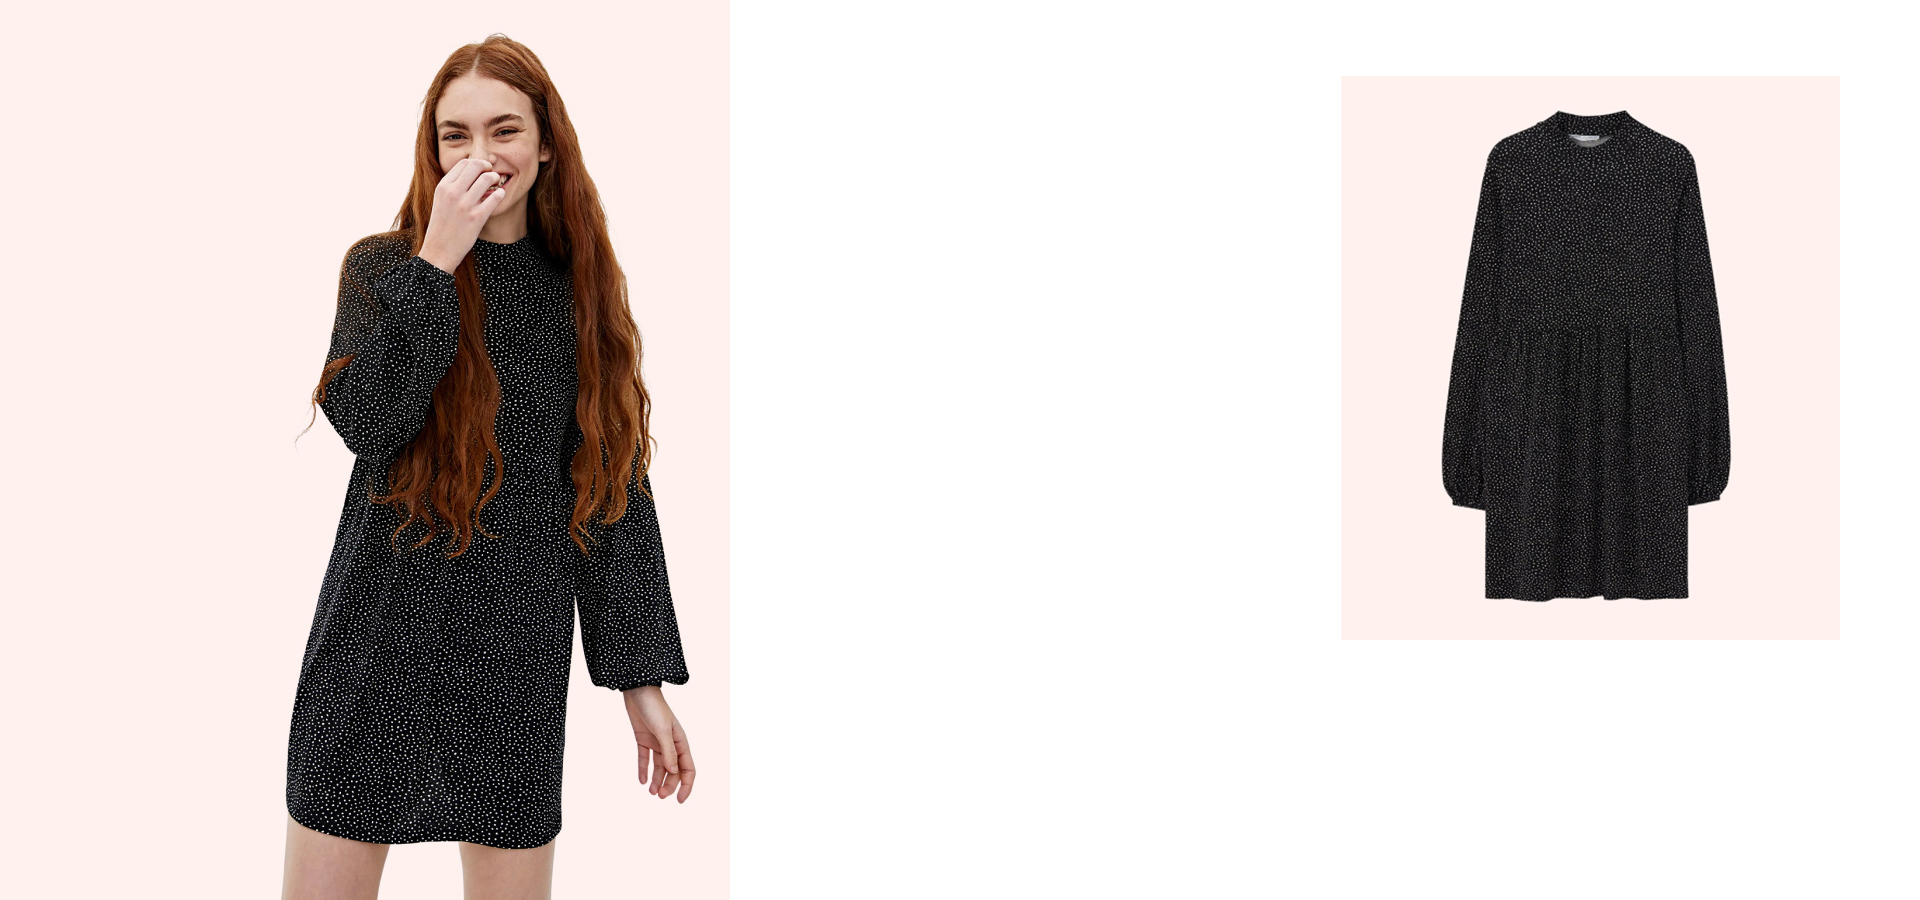
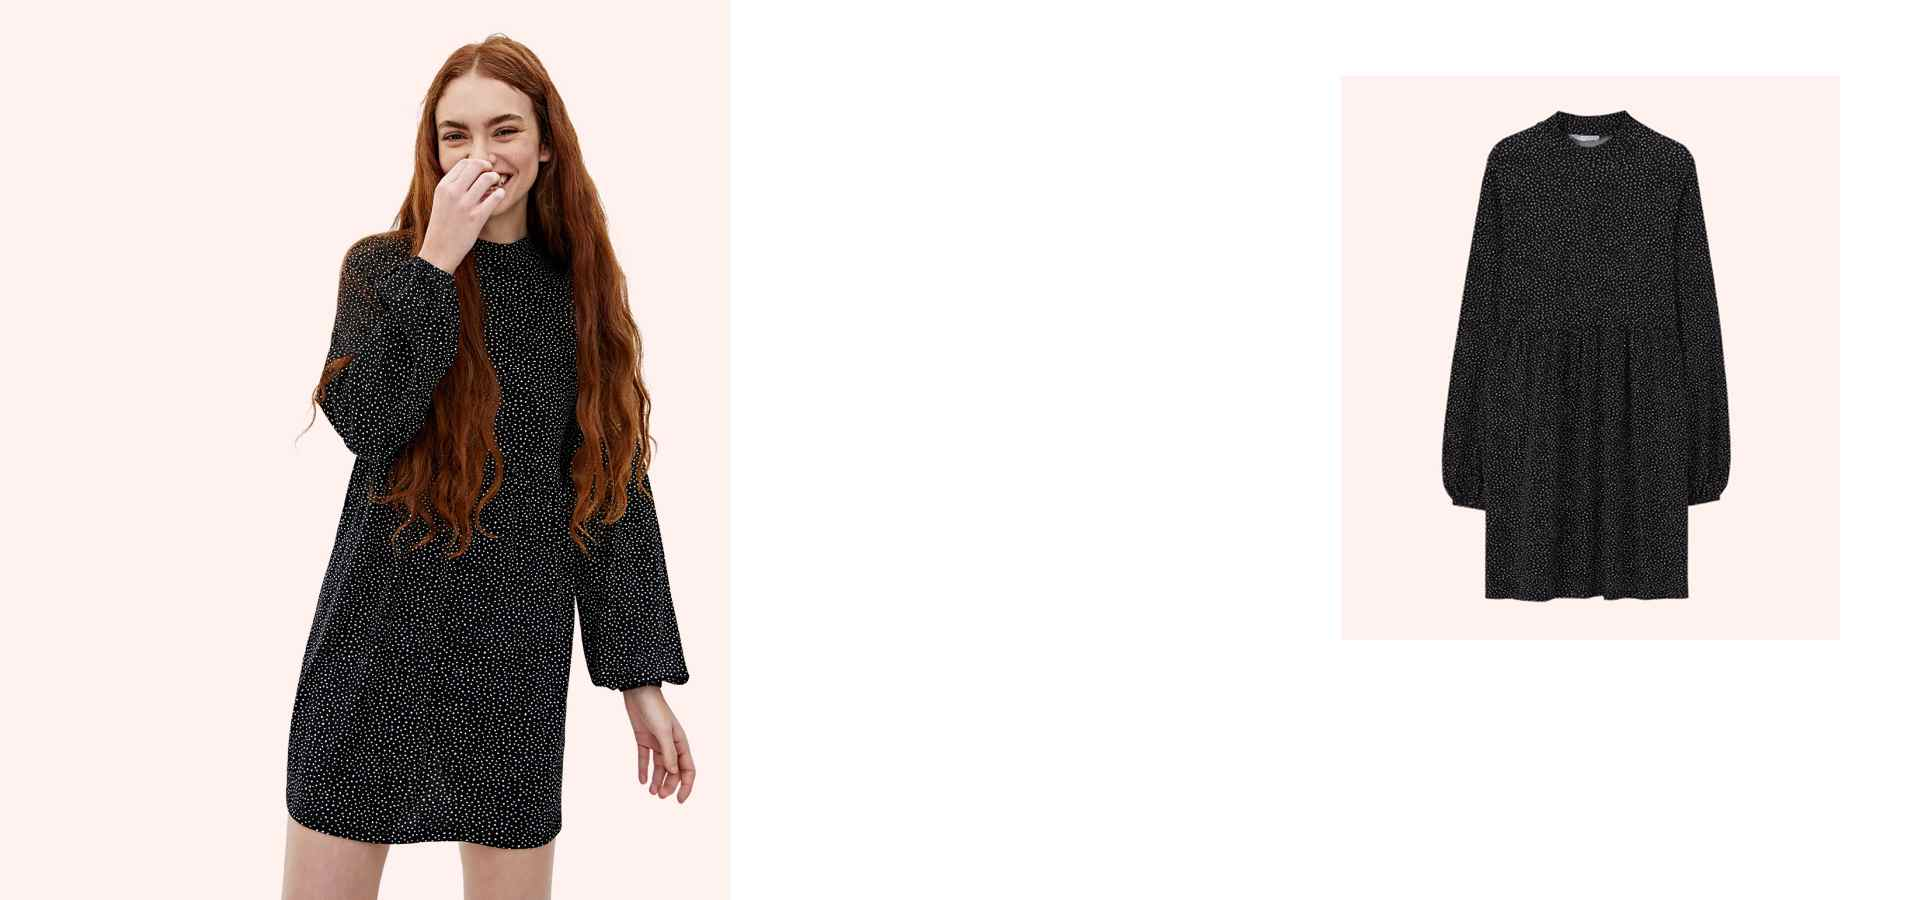
decrease images sizes

Changed region(s): [[0.1562, 0.2489, 0.3438, 0.9333]]

diff --git a/src/components/navbar/navbarComponents/dropdownNavbar.tsx b/src/components/navbar/navbarComponents/dropdownNavbar.tsx
@@ -1,216 +1,3 @@
-// // import * as React from "react";
-// // import { styled, alpha } from "@mui/material/styles";
-// // import Button from "@mui/material/Button";
-// // import Menu, { MenuProps } from "@mui/material/Menu";
-// // import MenuItem from "@mui/material/MenuItem";
-// // import KeyboardArrowDownIcon from "@mui/icons-material/KeyboardArrowDown";
-// // import { Link } from "react-router-dom";
-
-// // const StyledMenu = styled((props: MenuProps) => (
-// //   <Menu
-// //     elevation={0}
-// //     anchorOrigin={{
-// //       vertical: "bottom",
-// //       horizontal: "right",
-// //     }}
-// //     transformOrigin={{
-// //       vertical: "top",
-// //       horizontal: "right",
-// //     }}
-// //     {...props}
-// //   />
-// // ))(({ theme }) => ({
-// //   "& .MuiPaper-root": {
-// //     borderRadius: 6,
-// //     marginTop: theme.spacing(1),
-// //     minWidth: 180,
-// //     color: theme.palette.mode === "light" ? "rgb(55, 65, 81)" : theme.palette.grey[300],
-// //     boxShadow:
-// //       "rgb(255, 255, 255) 0px 0px 0px 0px, rgba(0, 0, 0, 0.05) 0px 0px 0px 1px, rgba(0, 0, 0, 0.1) 0px 10px 15px -3px, rgba(0, 0, 0, 0.05) 0px 4px 6px -2px",
-// //     "& .MuiMenu-list": {
-// //       padding: "4px 0",
-// //     },
-// //     "& .MuiMenuItem-root": {
-// //       "& .MuiSvgIcon-root": {
-// //         fontSize: 18,
-// //         color: theme.palette.text.secondary,
-// //         marginRight: theme.spacing(1.5),
-// //       },
-// //       "&:active": {
-// //         backgroundColor: alpha(theme.palette.primary.main, theme.palette.action.selectedOpacity),
-// //       },
-// //     },
-// //   },
-// // }));
-
-// // export default function DropdownNavbar() {
-// //   const [anchorEl, setAnchorEl] = React.useState<null | HTMLElement>(null);
-// //   const open = Boolean(anchorEl);
-// //   const handleClick = (event: React.MouseEvent<HTMLElement>) => {
-// //     setAnchorEl(event.currentTarget);
-// //   };
-// //   const handleClose = () => {
-// //     setAnchorEl(null);
-// //   };
-
-// //   const isLinkActive = (linkPath: string) => {
-// //     return location.pathname === linkPath;
-// //   };
-
-// //   const categories = ["electronics", "jewelery", "men's clothing", "women's clothing"];
-
-// //   return (
-// //     <div>
-// //       <Button
-// //         id="demo-customized-button"
-// //         aria-controls={open ? "demo-customized-menu" : undefined}
-// //         aria-haspopup="true"
-// //         aria-expanded={open ? "true" : undefined}
-// //         variant="text"
-// //         disableElevation
-// //         onClick={handleClick}
-// //         endIcon={<KeyboardArrowDownIcon />}
-// //         className={` md:!text-base !text-sm  !uppercase !font-medium !text-primary hover:!text-sky-700 !bg-transparent hover:!bg-[#E8E8E9] hover:!p-2 !rounded-none`}
-// //       >
-// //         Categories
-// //       </Button>
-// //       <StyledMenu
-// //         id="demo-customized-menu"
-// //         MenuListProps={{
-// //           "aria-labelledby": "demo-customized-button",
-// //         }}
-// //         anchorEl={anchorEl}
-// //         open={open}
-// //         onClose={handleClose}
-// //       >
-// //         {categories.map((item, index) => (
-// //           <MenuItem key={`categories-dropdown-${index + 1}`} onClick={handleClose} disableRipple>
-// //             <Link
-// //               to={`/products/category/${item}`}
-// //               className={`md:mx-3 mx-2  md:text-base text-sm py-1  uppercase font-medium text-primary hover:text-sky-700 ${
-// //                 isLinkActive(`/products/category/${encodeURIComponent(item)}`) ? "active-link" : ""
-// //               }`}
-// //             >
-// //               {item}
-// //             </Link>
-// //           </MenuItem>
-// //         ))}
-// //       </StyledMenu>
-// //     </div>
-// //   );
-// // }
-
-// import * as React from "react";
-// import { styled, alpha } from "@mui/material/styles";
-// import Button from "@mui/material/Button";
-// import Menu, { MenuProps } from "@mui/material/Menu";
-// import MenuItem from "@mui/material/MenuItem";
-// import KeyboardArrowDownIcon from "@mui/icons-material/KeyboardArrowDown";
-// import { Link } from "react-router-dom";
-
-// const StyledMenu = styled((props: MenuProps) => (
-//   <Menu
-//     elevation={0}
-//     anchorOrigin={{
-//       vertical: "bottom",
-//       horizontal: "right",
-//     }}
-//     transformOrigin={{
-//       vertical: "top",
-//       horizontal: "right",
-//     }}
-//     {...props}
-//   />
-// ))(({ theme }) => ({
-//   "& .MuiPaper-root": {
-//     borderRadius: 6,
-//     marginTop: theme.spacing(1),
-//     minWidth: 180,
-//     color: theme.palette.mode === "light" ? "rgb(55, 65, 81)" : theme.palette.grey[300],
-//     boxShadow:
-//       "rgb(255, 255, 255) 0px 0px 0px 0px, rgba(0, 0, 0, 0.05) 0px 0px 0px 1px, rgba(0, 0, 0, 0.1) 0px 10px 15px -3px, rgba(0, 0, 0, 0.05) 0px 4px 6px -2px",
-//     "& .MuiMenu-list": {
-//       padding: "4px 0",
-//     },
-//     "& .MuiMenuItem-root": {
-//       "& .MuiSvgIcon-root": {
-//         fontSize: 18,
-//         color: theme.palette.text.secondary,
-//         marginRight: theme.spacing(1.5),
-//       },
-//       "&:active": {
-//         backgroundColor: alpha(theme.palette.primary.main, theme.palette.action.selectedOpacity),
-//       },
-//     },
-//   },
-// }));
-
-// export default function DropdownNavbar() {
-//   const [anchorEl, setAnchorEl] = React.useState<null | HTMLElement>(null);
-//   const open = Boolean(anchorEl);
-
-//   const handleMouseEnter = (event: React.MouseEvent<HTMLElement>) => {
-//     setAnchorEl(event.currentTarget);
-//   };
-
-//   const handleMouseLeave = () => {
-//     setAnchorEl(null);
-//   };
-
-//   const isLinkActive = (linkPath: string) => {
-//     return location.pathname === linkPath;
-//   };
-
-//   const categories = ["electronics", "jewelery", "men's clothing", "women's clothing"];
-
-//   return (
-//     <div>
-//       <Button
-//         id="demo-customized-button"
-//         aria-controls={open ? "demo-customized-menu" : undefined}
-//         aria-haspopup="true"
-//         aria-expanded={open ? "true" : undefined}
-//         variant="text"
-//         disableElevation
-//         onMouseEnter={handleMouseEnter}
-//         onMouseLeave={handleMouseLeave}
-//         endIcon={<KeyboardArrowDownIcon />}
-//         className={`md:!text-base !text-sm !uppercase !font-medium !text-primary hover:!text-sky-700 !bg-transparent hover:!bg-[#E8E8E9] hover:!p-2 !rounded-none`}
-//       >
-//         Categories
-//       </Button>
-//       <StyledMenu
-//         id="demo-customized-menu"
-//         MenuListProps={{
-//           "aria-labelledby": "demo-customized-button",
-//         }}
-//         anchorEl={anchorEl}
-//         open={open}
-//         onMouseEnter={handleMouseEnter}
-//         onMouseLeave={handleMouseLeave}
-//         onClose={handleMouseLeave}
-//       >
-//         {categories.map((item, index) => (
-//           <MenuItem
-//             key={`categories-dropdown-${index + 1}`}
-//             onClick={handleMouseLeave}
-//             disableRipple
-//           >
-//             <Link
-//               to={`/products/category/${item}`}
-//               className={`md:mx-3 mx-2 md:text-base text-sm py-1 uppercase font-medium text-primary hover:text-sky-700 ${
-//                 isLinkActive(`/products/category/${encodeURIComponent(item)}`) ? "active-link" : ""
-//               }`}
-//             >
-//               {item}
-//             </Link>
-//           </MenuItem>
-//         ))}
-//       </StyledMenu>
-//     </div>
-//   );
-// }
-
 import Box from "@mui/material/Box";
 import List from "@mui/material/List";
 import ListItem from "@mui/material/ListItem";
@@ -222,19 +9,19 @@ type Catagories = {
 };
 const catagories: Catagories[] = [
   {
-    image: "/images/navbar/electronics-page.png",
+    image: "/images/navbar/electronics-page.jpg",
     name: "electronics",
   },
   {
-    image: "/images/navbar/jewelry.png",
+    image: "/images/navbar/jewelry.jpg",
     name: "jewelery",
   },
   {
-    image: "/images/navbar/men's-clothings.png",
+    image: "/images/navbar/men's-clothings.jpg",
     name: "men's clothing",
   },
   {
-    image: "/images/navbar/women's-clothings.png",
+    image: "/images/navbar/women's-clothings.jpg",
     name: "women's clothing",
   },
 ];

diff --git a/src/index.css b/src/index.css
@@ -1,6 +1,6 @@
-@import url("https://fonts.googleapis.com/css2?family=Cairo:wght@200..1000&family=Hanken+Grotesk:ital,wght@0,100..900;1,100..900&display=swap");
+/* @import url("https://fonts.googleapis.com/css2?family=Cairo:wght@200..1000&family=Hanken+Grotesk:ital,wght@0,100..900;1,100..900&display=swap");
 
-@import url("https://fonts.googleapis.com/css2?family=Beiruti:wght@200..900&family=Cairo:wght@200..1000&family=Hanken+Grotesk:ital,wght@0,100..900;1,100..900&display=swap");
+@import url("https://fonts.googleapis.com/css2?family=Beiruti:wght@200..900&family=Cairo:wght@200..1000&family=Hanken+Grotesk:ital,wght@0,100..900;1,100..900&display=swap"); */
 
 @tailwind base;
 @tailwind components;

diff --git a/src/components/home/homeFeaturesProducts.tsx b/src/components/home/homeFeaturesProducts.tsx
@@ -23,7 +23,7 @@ export default function HomeFeaturesProducts() {
       <div className=" flex md:justify-between justify-center max-md:flex-col items-start max-md:items-center lg:gap-16 md:gap-6 mx-auto max-md:pt-4 max-md:!hidden">
         {/* ADS */}
         <figure className="max-md:!hidden w-fit xl:min-w-[350px] min-w-[300px] !h-full justify-start flex max-md:justify-center">
-          <img className="" src="/images/home/Banner-1.png" alt="banner" />
+          <img className="" src="/images/home/Banner-1.jpg" alt="banner" />
         </figure>
 
         {/* PRODUCTS */}

diff --git a/index.html b/index.html
@@ -55,6 +55,15 @@
         ]
       }
     </script>
+
+    <link
+      rel="stylesheet"
+      href="https://fonts.googleapis.com/css2?family=Cairo:wght@200..1000&family=Hanken+Grotesk:ital,wght@0,100..900;1,100..900&display=swap"
+    />
+    <link
+      rel="stylesheet"
+      href="https://fonts.googleapis.com/css2?family=Beiruti:wght@200..900&family=Cairo:wght@200..1000&family=Hanken+Grotesk:ital,wght@0,100..900;1,100..900&display=swap"
+    />
   </head>
   <body>
     <div id="root"></div>

diff --git a/src/components/home/homeShopNow.tsx b/src/components/home/homeShopNow.tsx
@@ -50,7 +50,7 @@ export default function HomeShopNow() {
 
         {/* ADS */}
         <figure className="w-fit max-md:hidden xl:min-w-[350px] min-w-[300px] !h-full flex max-md:justify-center justify-end">
-          <img className="" src="/images/home/Banner-1.png" alt="banner" />
+          <img className="" src="/images/home/Banner-1.jpg" alt="banner" />
         </figure>
       </div>
     </section>
